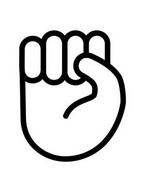
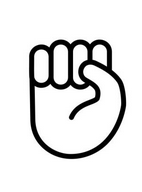
Modification de la bourdure après click sur Pierre ou Feuille ou Ciseaux

Changed region(s): [[0.1127, 0.1579, 0.9014, 0.8684]]

diff --git a/script2.js b/script2.js
@@ -1,0 +1,42 @@
+// Création des constantes de récupération des items par leur Id
+const imagePierre = document.getElementById("pierre");
+
+const imageFeuille = document.getElementById("feuille");
+
+const imageCiseaux = document.getElementById("ciseaux");
+
+const message =document.getElementById("message");
+
+const rejouer = document.getElementById("rejouer");
+
+// Ajout d'évènement à chaque image
+imagePierre.addEventListener("click", clickPierre);
+imageFeuille.addEventListener("click", clickFeuille);
+imageCiseaux.addEventListener("click", clickCiseaux );
+
+// Définition du choix de l'ordi et les choix possibles
+let choixOrdinateur;
+const choixPoissible = ["PIERRE", "FEUILLE", "CISEAUX"];
+
+
+choixOrdinateur = (Math.random()*2).toFixed(0); // toFixed(0)= arrondir les valeurs à 0
+message.innerHTML = "Le choix de l'ordinateur est fait, à vous de jouer...";
+
+// Création des fonctions
+function clickPierre(){
+    imagePierre.style.border = "thick solid #0000FF";
+    verification(1);
+}
+function clickFeuille(){
+    imageFeuille.style.border = "thick solid #0000FF";
+    verification(2);
+}
+function clickCiseaux(){
+    imageCiseaux.style.border = "thick solid #0000FF";
+    verification(3);
+}
+
+
+
+
+

diff --git a/style2.css b/style2.css
@@ -1,0 +1,15 @@
+.bandeau{
+    background: linear-gradient(90deg, #000824 , #a0acbe);
+    color: #FFFF;
+}
+
+
+.green{
+    border: 1px solid yellowgreen;
+    border-radius: 5%;
+}
+
+.red{
+    border: 2px solid red;
+    border-radius: 5%;
+}

diff --git a/index.php b/index.php
@@ -5,7 +5,7 @@
     <meta name="viewport" content="width=device-width, initial-scale=1">
     <link href="https://cdn.jsdelivr.net/npm/bootstrap@5.3.3/dist/css/bootstrap.min.css" rel="stylesheet"
     integrity="sha384-QWTKZyjpPEjISv5WaRU9OFeRpok6YctnYmDr5pNlyT2bRjXh0JMhjY6hW+ALEwIH" crossorigin="anonymous">
-    <link rel="stylesheet" href="style1.css">
+    <link rel="stylesheet" href="style2.css">
     <title>Pierre Feuille Ciseaux</title>
   </head>
   <body>
@@ -17,18 +17,18 @@
         <button type="button" class="bandeau p-2 mt-2 mb-2  rounded text-center" id="rejouer" >Rejouer</button>
     </div>
     <div class="container text-center ">
-        <img src="/assets/img/Pierre.png " class=" text-center border border-primary rounded" alt="Pierre" id="pierre" >
-        <img src="/assets/img/Feuille.png " class=" border border-primary rounded " alt="Feuille" id="feuille" >
-        <img src="/assets/img/Ciseaux.png " class=" border border-primary rounded " alt="Ciseaux" id="ciseaux" >
+        <img src="/assets//img/Pierre.png" alt="pierre" id="pierre" class="green" >
+        <img src="/assets/img/Feuille.png " alt="Feuille" id="feuille"  class="green" >
+        <img src="/assets/img/Ciseaux.png " alt="Ciseaux" id="ciseaux"  class="green" >
     </div>
 
-    <div class="container text-center mt-5 bandeau" id="message">
+    <div class="container text-center mt-5 bandeau p-3 rounded" id="message">
         Messages
     </div>
     <script
     src="https://cdn.jsdelivr.net/npm/bootstrap@5.3.3/dist/js/bootstrap.bundle.min.js"
     integrity="sha384-YvpcrYf0tY3lHB60NNkmXc5s9fDVZLESaAA55NDzOxhy9GkcIdslK1eN7N6jIeHz" crossorigin="anonymous">
 </script>
-<script src="/script.js"></script>
+<script src="/script2.js"></script>
   </body>
 </html>
